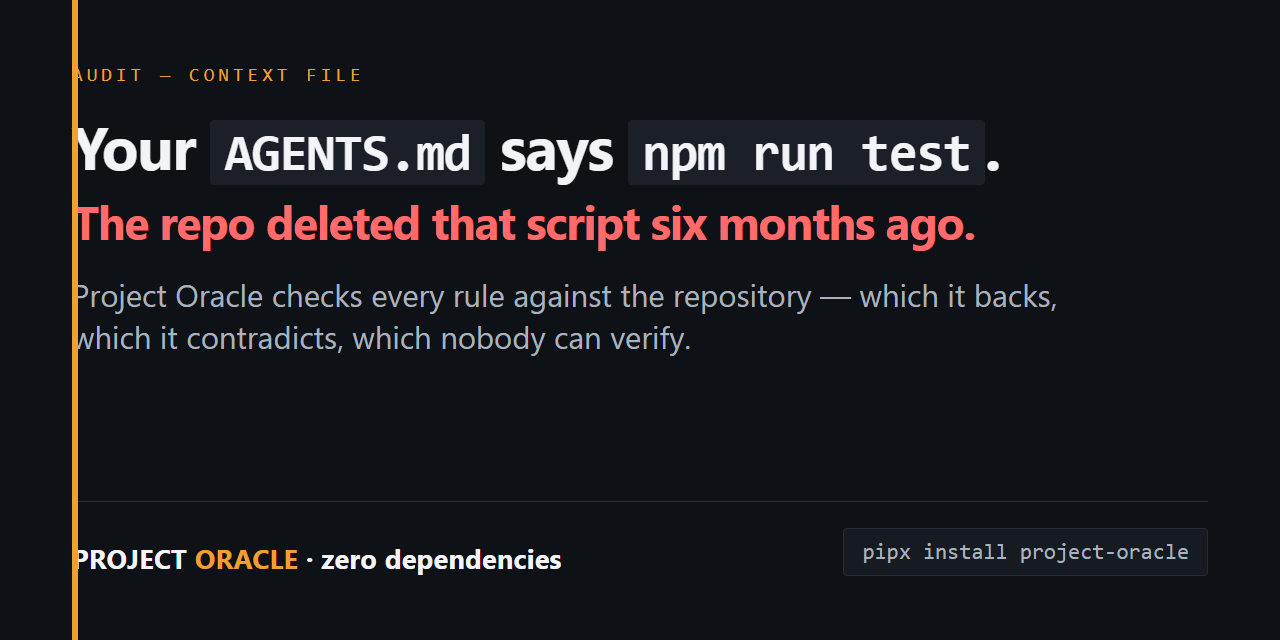
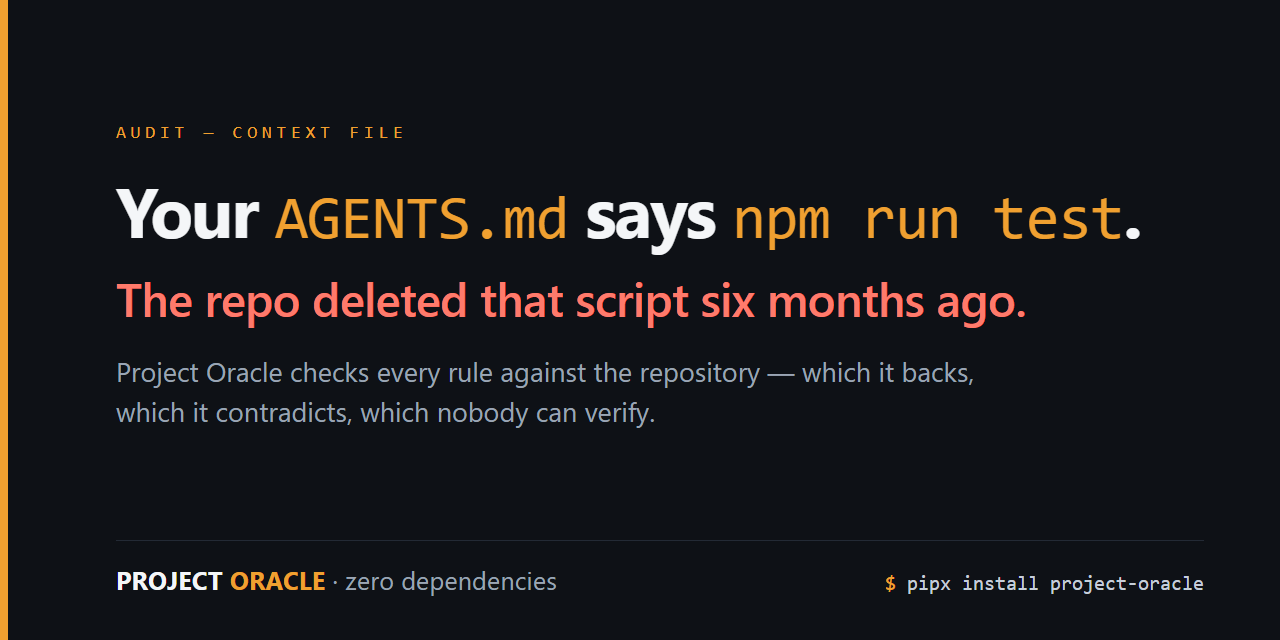
fix(docs): the card text ran under the accent bar (#27)
The 8px rule sat at left:72px while the body padding was also 72px, so the
first 6 pixels of every line were painted behind it. Measured on the rendered
PNG: at y=150 the pixels 72..77 were solid orange and the Y of "Your" started
at 72 — the leading glyph of the headline was cut.

The rule is now flush to the edge, the text starts 116px in, and the card is
measured rather than eyeballed:

- 0 non-orange pixels anywhere inside the rule
- headline on one line, 115..1139px, 141px of air on the right
- content centred: 127px above, 113px below the last line

Also dropped the two grey pills around AGENTS.md and npm run test: they were
carrying a background, a radius and a different font size in one line of the
same sentence. The monospace and the accent colour do that job with less noise.

diff --git a/docs/social-preview.html b/docs/social-preview.html
@@ -7,52 +7,53 @@
   html,body { width:1280px; height:640px; }
   body {
     background:#0E1116;
-    color:#F2F4F7;
+    color:#F4F6F8;
     font-family:"Segoe UI","Helvetica Neue",Arial,sans-serif;
-    padding:64px 72px;
-    display:flex; flex-direction:column; justify-content:space-between;
+    padding:0 76px 44px 116px;
+    display:flex; flex-direction:column;
     position:relative;
+    -webkit-font-smoothing:antialiased;
   }
-  .rule { position:absolute; left:72px; top:0; width:6px; height:640px; background:#F0A030; }
+  /* collee au bord, le texte demarre 108px plus loin */
+  .rule { position:absolute; left:0; top:0; width:8px; height:640px; background:#F0A030; }
+
+  .content { flex:1; display:flex; flex-direction:column; justify-content:center; padding-top:12px; }
+
   .kicker {
     font-family:Consolas,"Cascadia Mono",monospace;
-    font-size:19px; letter-spacing:.22em; text-transform:uppercase;
-    color:#F0A030;
+    font-size:18px; letter-spacing:.26em; text-transform:uppercase; color:#F0A030;
   }
   h1 {
-    font-size:60px; line-height:1.12; font-weight:700; letter-spacing:-.02em;
-    max-width:1080px; margin-top:26px;
+    font-size:70px; line-height:1.16; font-weight:700; letter-spacing:-.028em; margin-top:26px;
   }
-  h1 .bad { color:#FF6B6B; font-size:46px; display:block; margin-top:14px; }
-  h1 code {
-    font-family:Consolas,"Cascadia Mono",monospace;
-    font-size:52px; background:#1B2028; color:#F2F4F7;
-    padding:2px 14px; border-radius:4px;
-  }
-  .sub { font-size:31px; line-height:1.35; color:#A9B2BF; margin-top:26px; max-width:1000px; }
-  .foot { display:flex; justify-content:space-between; align-items:flex-end;
-          border-top:1px solid #262D38; padding-top:26px; }
-  .foot .name { font-size:27px; font-weight:700; letter-spacing:.01em; }
-  .foot .name span { color:#F0A030; }
-  .foot .cmd {
-    font-family:Consolas,"Cascadia Mono",monospace; font-size:22px;
-    color:#A9B2BF; background:#161B22; border:1px solid #262D38;
-    padding:10px 18px; border-radius:4px;
-  }
+  h1 .c { font-family:Consolas,"Cascadia Mono",monospace; font-size:61px;
+          font-weight:400; color:#F0A030; letter-spacing:-.015em; }
+  .red { display:block; font-size:47px; line-height:1.2; color:#FF7A6B;
+         font-weight:600; margin-top:16px; letter-spacing:-.015em; }
+  .sub { font-size:27px; line-height:1.45; color:#9AA5B4; margin-top:26px; max-width:920px; }
+
+  .foot { display:flex; justify-content:space-between; align-items:baseline;
+          border-top:1px solid #232A35; padding-top:22px; }
+  .name { font-size:25px; font-weight:700; letter-spacing:.01em; white-space:nowrap; }
+  .name .o { color:#F0A030; }
+  .name .d { font-weight:400; color:#9AA5B4; }
+  .cmd { font-family:Consolas,"Cascadia Mono",monospace; font-size:20px;
+         color:#C6CEDA; white-space:nowrap; }
+  .cmd b { color:#F0A030; font-weight:400; }
 </style>
 </head>
 <body>
   <div class="rule"></div>
-  <div>
-    <div class="kicker">audit — context file</div>
-    <h1>Your <code>AGENTS.md</code> says <code>npm run test</code>.<br>
-        <span class="bad">The repo deleted that script six months ago.</span></h1>
-    <div class="sub">Project Oracle checks every rule against the repository —
+  <div class="content">
+    <div class="kicker">audit &mdash; context file</div>
+    <h1>Your <span class="c">AGENTS.md</span> says <span class="c">npm run test</span>.</h1>
+    <span class="red">The repo deleted that script six months ago.</span>
+    <div class="sub">Project Oracle checks every rule against the repository &mdash;
       which it backs, which it contradicts, which nobody can verify.</div>
   </div>
   <div class="foot">
-    <div class="name">PROJECT <span>ORACLE</span> · zero dependencies</div>
-    <div class="cmd">pipx install project-oracle</div>
+    <div class="name">PROJECT <span class="o">ORACLE</span> <span class="d">&middot; zero dependencies</span></div>
+    <div class="cmd"><b>$</b> pipx install project-oracle</div>
   </div>
 </body>
 </html>
